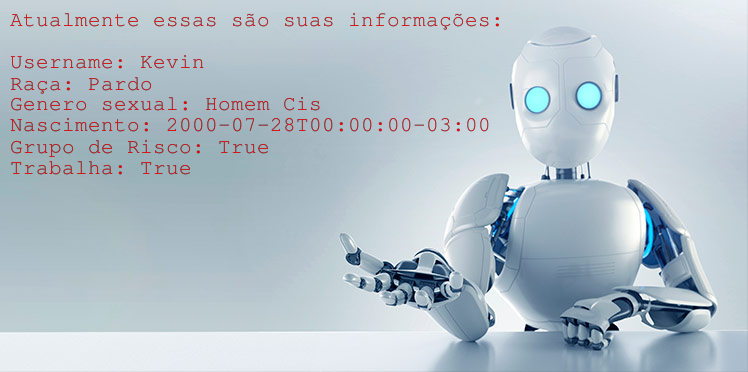
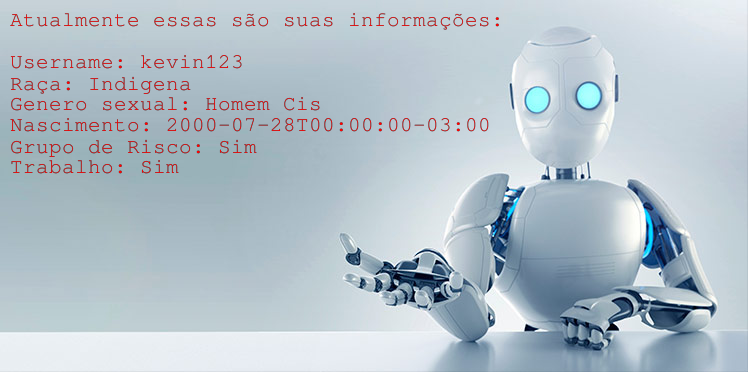
Alterando a imagem que o bot envia mostrando as informaçoes e retirando algumas informaçoes que nao serao usadas

diff --git a/src/perfil.py b/src/perfil.py
@@ -17,11 +17,7 @@ def start(update, context):
 
     user_data['Keyboard'] = [['Username', 'Raça'],
                             ['Genero sexual', 'Nascimento'],
-                            ['País', ' Estado'],
-                            ['Cidade', 'Grupo de Risco'],
-                            ['Instituição de Ensino', 'Universidade'],
-                            ['Municipio', 'Matricula'],
-                            ['Faculdade', 'Trabalha'],
+                            ['Trabalho', 'Grupo de Risco'],
                             ['Mostrar informações', 'Voltar']]
     markup = ReplyKeyboardMarkup(user_data['Keyboard'], one_time_keyboard=True, resize_keyboard=True)
 
@@ -61,41 +57,12 @@ def regular_choice(update, context):
         user_data['edit_item'] = 'birthdate'
         getters.get_birthday(update, context)    
 
-    # if "Raça" in text:
-    #     getters.get_Race(update, context)    
-    if "País" in text:
-        user_data['edit_item'] = 'country'
-        getters.get_Pais(update, context)   
-
-    if "Estado" in text:
-        user_data['edit_item'] = 'state'
-        getters.get_Estado(update, context)    
-
-    if "Cidade" in text:
-        user_data['edit_item'] = 'city'
-        getters.get_Cidade(update, context)    
-
     if "Grupo de Risco" in text:
         user_data['edit_item'] = 'risk_group'
         getters.get_Risco(update, context)    
-    
-    if "Instituição de Ensino" in text:
-        user_data['edit_item'] = 'group_id'
-        getters.get_Instituicao(update, context)
+          
 
-    if "Universidade" in text:
-        user_data['edit_item'] = 'school_unit_id'
-        getters.get_Universidade(update, context)
-    
-    if "Matricula" in text:
-        user_data['edit_item'] = 'identification_code'
-        getters.get_Matricula(update, context)
-    
-    if "Faculdade" in text:
-        user_data['edit_item'] = 'group'
-        getters.get_Faculdade(update, context)        
-
-    if "Trabalha" in text:
+    if "Trabalho" in text:
         user_data['edit_item'] = 'is_professional'
         getters.get_professional(update, context)
 
@@ -103,19 +70,12 @@ def regular_choice(update, context):
         resposta = utils.request_informations(user_data)
         user_data['edit_item'] = 'none'
         user_data['choice'] = 'none'
-        # head = "Atualmente essas são suas informações:\n"
-        # update.message.reply_text(head + "{}".format(utils.dict_to_str(resposta)))
 
-
-# ----------------------------------------------------------------------
         returnText = ""
-
         returnText = utils.image(resposta)
-        # head = "Atualmente essas são suas informações:\n"
-        # update.message.reply_text(head + returnText)
         path = 'src/images/robo_save.png'
         context.bot.send_photo(chat_id=update.effective_chat.id, photo=open( path, 'rb'))
-# ---------------------------------------------------------------------
+
 
         return CHOOSING
 
@@ -149,11 +109,7 @@ def received_information(update, context):
 
     keyboard =  [['Username', 'Raça'],
                 ['Genero sexual', 'Nascimento'],
-                ['País', ' Estado'],
-                ['Cidade', 'Grupo de Risco'],
-                ['Instituição de Ensino', 'Universidade'],
-                ['Municipio', 'Matricula'],
-                ['Faculdade', 'Trabalha'],
+                ['Trabalho', 'Grupo de Risco'],
                 ['Mostrar informações', 'Voltar']]
 
     markup = ReplyKeyboardMarkup(keyboard, one_time_keyboard=True, resize_keyboard=True)
@@ -272,41 +228,15 @@ def requestEdit(update, context):
 
     headers = {'Accept' : 'application/vnd.api+json', 'Content-Type' : 'application/json', 'Authorization' : str(user_data['AUTH_TOKEN'])}
 
-    # print("Token:", str(token))
     # #Faz a tentativa de cadastro utilizando o json e os headers inseridos
-
     r = requests.patch("http://127.0.0.1:3001/users/" + str(user_data.get('id')) , json=json_entry, headers=headers)
     
 
-    # # Log de sucesso ou falha no cadastro
+    ## Log de sucesso ou falha no cadastro
     if r.status_code == 200: # Sucesso
         update.message.reply_text("Você alterou a informação com sucesso, retornando ao menu de edição\n")  
 
     else: #Falha
-        
-        print("Edit Failed!")
+        update.message.reply_text("Algo deu errado com a edição, retornando ao menu de edição\n")  
+
          
-
-
-
-#Inicia o cadastro
-def editInformation(update, context):
-    # user_data = context
-    # user_data['Keyboard'] = 
-    edit_options =    [['Username', 'Raça'],
-                        ['Genero sexual', 'Nascimento'],
-                        ['País', ' Estado'],
-                        ['Cidade', 'Grupo de Risco'],
-                        ['Instituição de Ensino', 'Universidade'],
-                        ['Municipio', 'Matricula'],
-                        ['Faculdade'],
-                        ['Voltar']]
-    edit_markup = ReplyKeyboardMarkup(edit_options, resize_keyboard=True)
-
-    text = update.message.text
-
-    update.message.reply_text(
-        "O que deseja alterar?",
-        reply_markup=edit_markup)
-
-    return CHOOSING

diff --git a/src/utils.py b/src/utils.py
@@ -132,8 +132,6 @@ def validations_signup(user_data):
 
 def request_informations(context):
     
-
-
     json_entry = {
         "user" : {
             "email" : context['Email'],
@@ -158,29 +156,6 @@ def request_informations(context):
         return user
 
 
-
-    #     #Token de autorização de sessão
-    #     context.user_data['AUTH_TOKEN'] = r.headers['Authorization']
-
-    #     context.user_data['Username'] = user['user_name']
-
-    #     context.user_data['user_id'] = user['id']
-
-    #     del context.user_data['Senha'] # Remove a senha do usuário do cache para garantir segurança
-
-    #     context.bot.send_message(
-    #         chat_id=update.effective_chat.id,
-    #         text=f"{context.user_data['Username']} seja bem vindo(a) ao DoctorS Bot, o chat bot integrado ao Guardiões da Saúde."
-    #     )
-    
-    # else: #Falha
-    #     context.bot.send_message(
-    #         chat_id=update.effective_chat.id,
-    #         text="Seu login falhou!\n\nTem certeza que digitou os dados corretamente?"
-    #     )
-
-    # #Chama o menu novamente
-    # handlers.menu(update, context)
 
 
 def image(entradaTexto):
@@ -221,13 +196,12 @@ def image(entradaTexto):
     # out.show()
 
 def geraString(text):
-    
+
     texto = "Atualmente essas são suas informações: " + "\n" 
 
         #De acordo com a escolha, chama uma função
     if "user_name" in text:
         texto =  texto  + "\n" + 'Username' + ": " + str(text['user_name'])
-        # texto =  texto  + "\n" + 'user_name'
 
     if "race" in text:
         texto =  texto  + "\n" + 'Raça' + ": " + str(text['race'])
@@ -238,32 +212,18 @@ def geraString(text):
     if "birthdate" in text:
         texto =  texto  + "\n" + 'Nascimento' + ": " + str(text['birthdate'])
   
-#    if "country" in text:
-#        texto =  texto  + "\n" + 'País' + ": " + str(text['country'])
-
-#    if "state" in text:
-#        texto =  texto  + "\n" + 'Estado' + ": " + str(text['state'])
-
-#    if "city" in text:
-#        texto =  texto  + "\n" + 'Cidade' + ": " + str(text['city'])
 
     if "risk_group" in text:
-        texto =  texto  + "\n" + 'Grupo de Risco' + ": " + str(text['risk_group'])
-    
-#    if "group_id" in text:
-#        texto =  texto  + "\n" + 'Instituição de Ensino' + ": " + str(text['group_id'])
-
-#    if "school_unit_id" in text:
-#        texto =  texto  + "\n" + 'Universidade' + ": " + str(text['school_unit_id'])
-    
-#    if "identification_code" in text:
-#        texto =  texto  + "\n" + 'Matricula' + ": " + str(text['identification_code'])
-    
-#    if "group" in text:
-#        texto =  texto  + "\n" + 'Faculdade' + ": " + str(text['group'])
+        if text['risk_group'] == True:
+            texto =  texto  + "\n" + 'Grupo de Risco' + ": Sim"
+        else:
+            texto = texto + "\n" + 'Grupo de Risco' + ": Não"
 
     if "is_professional" in text:
-        texto =  texto  + "\n" + 'Trabalha' + ": " + str(text['is_professional'])
+        if text['is_professional'] == True:
+            texto =  texto  + "\n" + 'Trabalho' + ": Sim"
+        else:
+            texto = texto + "\n" + 'Trabalho' + ": Não"
 
     
     return texto

diff --git a/src/getters.py b/src/getters.py
@@ -99,36 +99,7 @@ def get_professional(update, context):
 
     return CHOOSING
 
-# -----------------------------------------------
-def get_Estado(update, context):
-    text = update.message.text
-    context.user_data['choice'] = text
-    update.message.reply_text(
-        'Digite um Estado valido!'
-    )
-
-    return CHOOSING
-# -----------------------------------------------
-def get_Pais(update, context):
-    text = update.message.text
-    context.user_data['choice'] = text
-    update.message.reply_text(
-        'Digite um País valido!'
-    )
-
-    return CHOOSING
-
-# -----------------------------------------------
-def get_Cidade(update, context):
-    text = update.message.text
-    context.user_data['choice'] = text
-    update.message.reply_text(
-        'Digite uma Cidade valida!'
-    )
-
-    return CHOOSING
-
-# -----------------------------------------------
+#Funcao que recebe se o usuario eh do grupo de risco ou n
 def get_Risco(update, context):
     text = update.message.text
     context.user_data['choice'] = text
@@ -137,54 +108,3 @@ def get_Risco(update, context):
     )
 
     return CHOOSING
-# -----------------------------------------------
-def get_Instituicao(update, context):
-    text = update.message.text
-    context.user_data['choice'] = text
-    update.message.reply_text(
-        'Você é de alguma instituição?', reply_markup=yes_no_markup
-    )
-
-    return CHOOSING
-
-
-
-# -----------------------------------------------
-def get_Universidade(update, context):
-    text = update.message.text
-    context.user_data['choice'] = text
-    update.message.reply_text(
-        'Digite sua Universidade!'
-    )
-
-    return CHOOSING
-
-# -----------------------------------------------
-def get_Matricula(update, context):
-    text = update.message.text
-    context.user_data['choice'] = text
-    update.message.reply_text(
-        'Digite sua Matricula!'
-    )
-
-    return CHOOSING
-
-# -----------------------------------------------
-def get_Faculdade(update, context):
-    text = update.message.text
-    context.user_data['choice'] = text
-    update.message.reply_text(
-        'Digite sua Faculdade!'
-    )
-
-    return CHOOSING
-
-
-
-
-
-
-
-# PERFIL_ENTRY_REGER = '^(|||||||||Cancelar)$'
-
-

diff --git a/src/Bot.py b/src/Bot.py
@@ -6,7 +6,7 @@ import pathlib
 
 SIGNUP_ENTRY_REGEX = '^(Username|Username✅|Email|Email✅|Senha|Senha✅|Genero sexual|Genero sexual✅|Raça|Raça✅|Trabalho|Trabalho✅)$'
 LOGIN_ENTRY_REGEX = '^(Email|Email✅|Senha|Senha✅)$'
-PERFIL_ENTRY_REGER = '^(Username|Raça|Genero sexual|Nascimento|País|Estado|Cidade|Grupo de Risco|Instituição de Ensino|Universidade|Matricula|Faculdade|Trabalha|Mostrar informações|Voltar)$'
+PERFIL_ENTRY_REGER = '^(Username|Raça|Genero sexual|Nascimento|Grupo de Risco|Trabalho|Mostrar informações|Voltar)$'
 
 class Bot:
 
